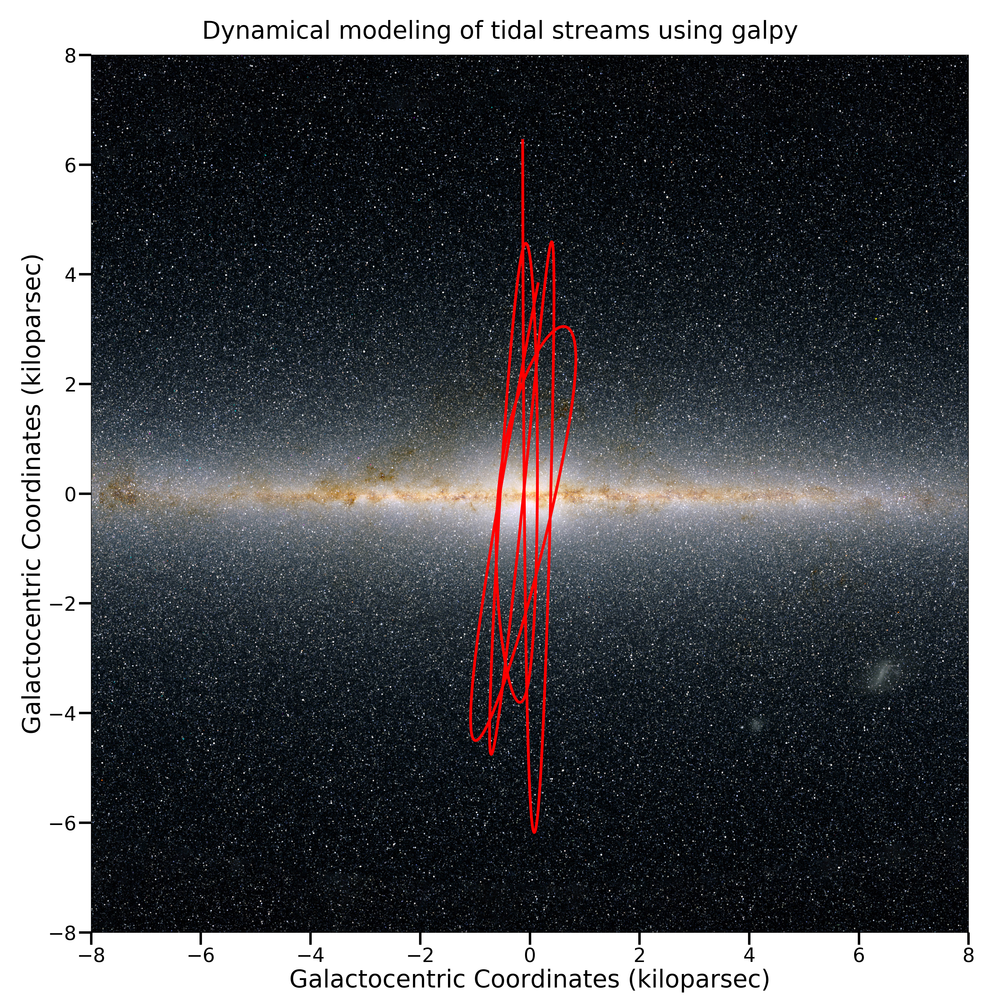
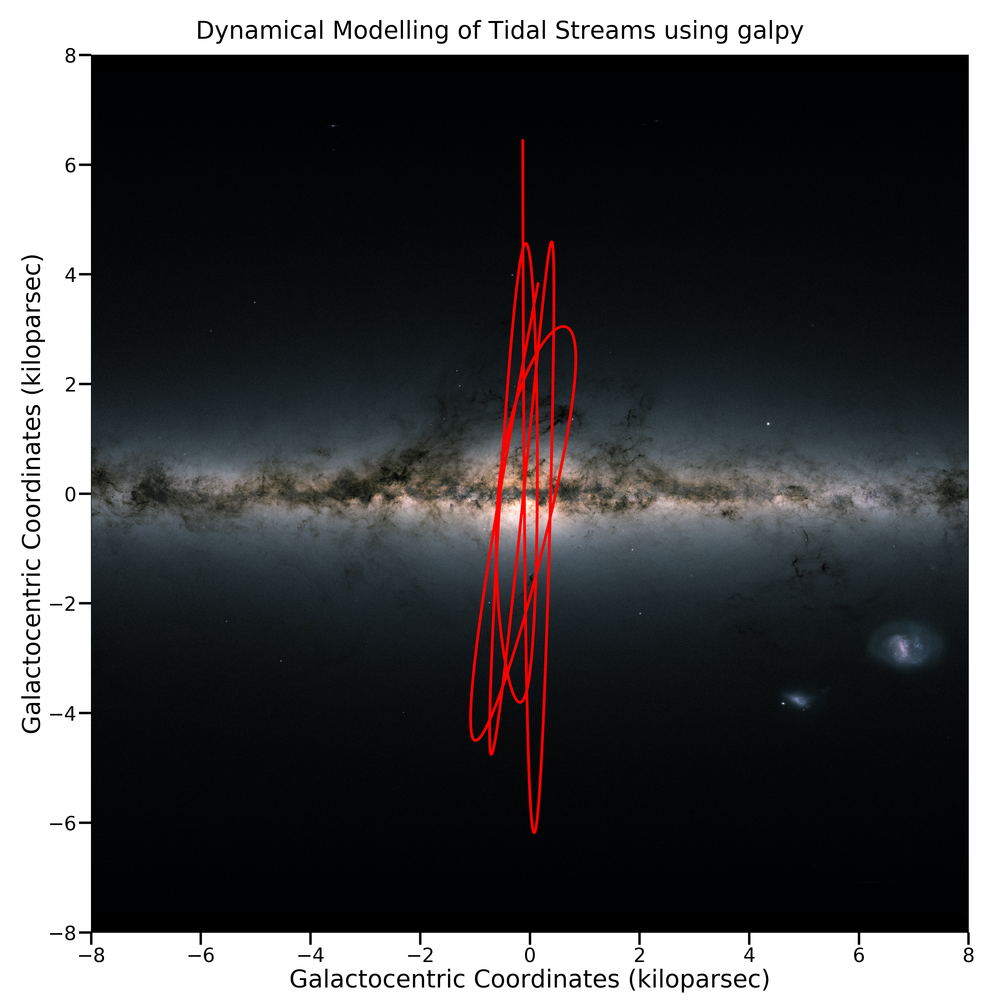
change edge-on view to Gaia DR2

Changed region(s): [[0.093, 0.0, 0.992, 0.93]]

diff --git a/setup.py b/setup.py
@@ -6,7 +6,7 @@ with open(os.path.join(os.path.abspath(os.path.dirname(__file__)), 'README.rst')
 
 setup(
     name='mw_plot',
-    version='0.3.0',
+    version='0.4.0',
     classifiers=[
         'Development Status :: 3 - Alpha',
         'License :: OSI Approved :: MIT License',

diff --git a/README.rst b/README.rst
@@ -7,8 +7,8 @@ You can set the center and radius of the plot anywhere on a milkyway galaxy imag
 Both ``MW_bg_annotate.jpg`` and ``MW_bg_unannotate.jpg`` are modified from an images by **NASA/JPL-Caltech/R. Hurt (SSC/Caltech)**
 Both images are 5600x5600px with resolution of 24.2 light years per pixel.
 
-``MW_edgeon_unannotate.jpg`` is modified from an images by **2MASS/J. Carpenter, T. H. Jarrett, & R. Hurt**.
-The image is 6500x6500px with resolution of 15.38 light years per pixel
+``MW_edgeon_unannotate.jpg`` is modified from an images by **ESA/Gaia/DPAC**.
+The image is 6500x6500px with resolution of 15.38 light years per pixel taken by ESA Gaia DR2.
 
 mw_plot will fill black pixel for region outside the pre-compiled images.
 
